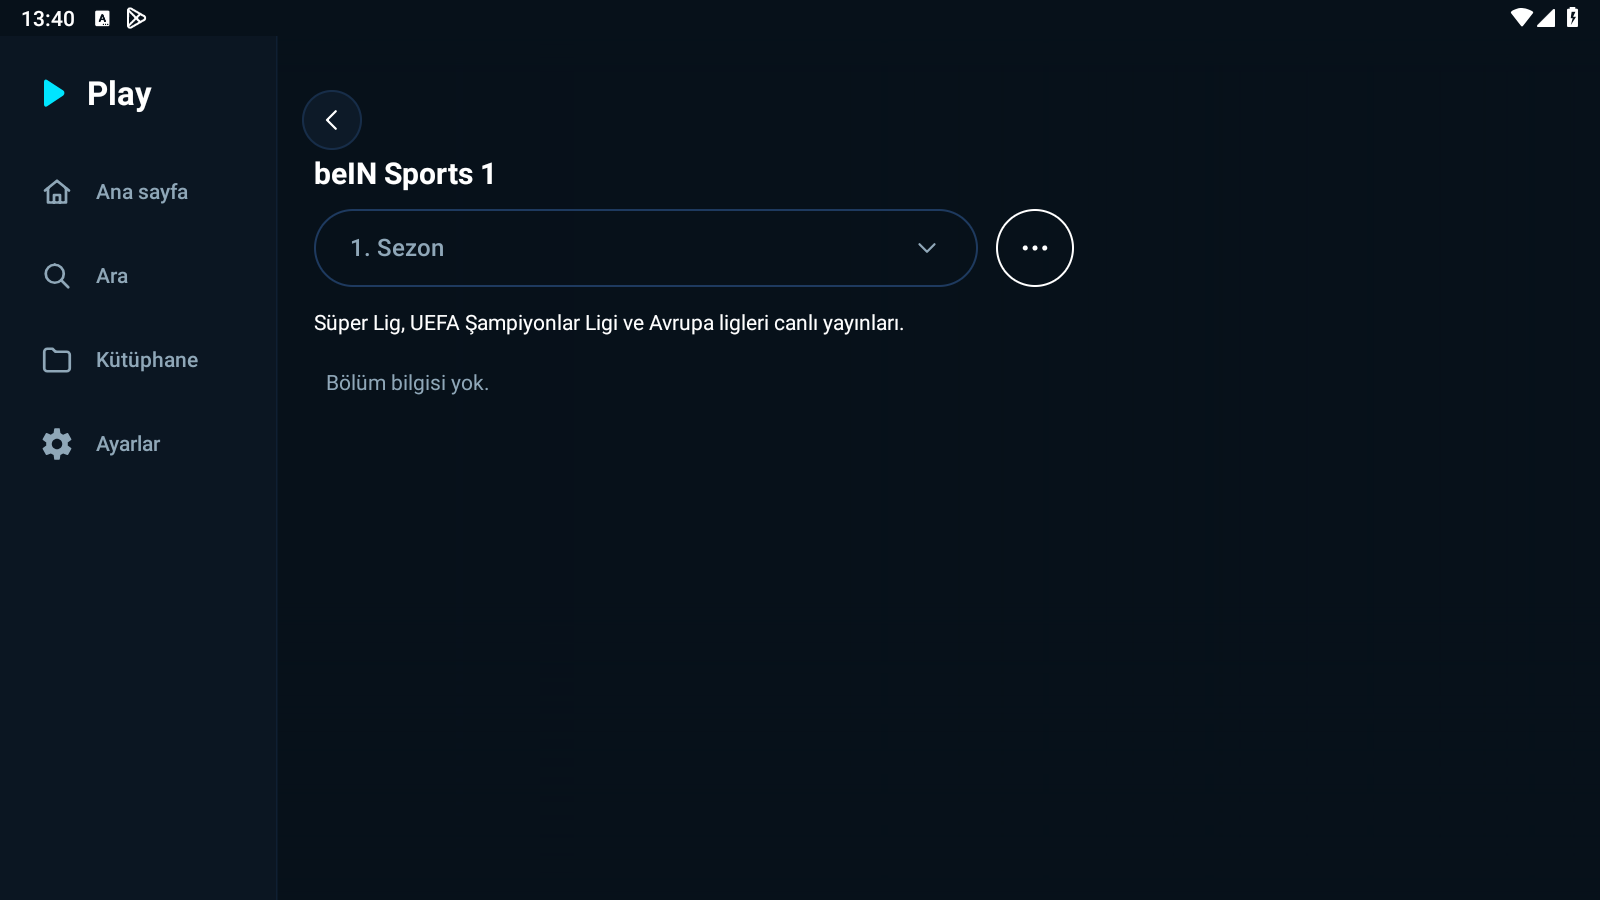
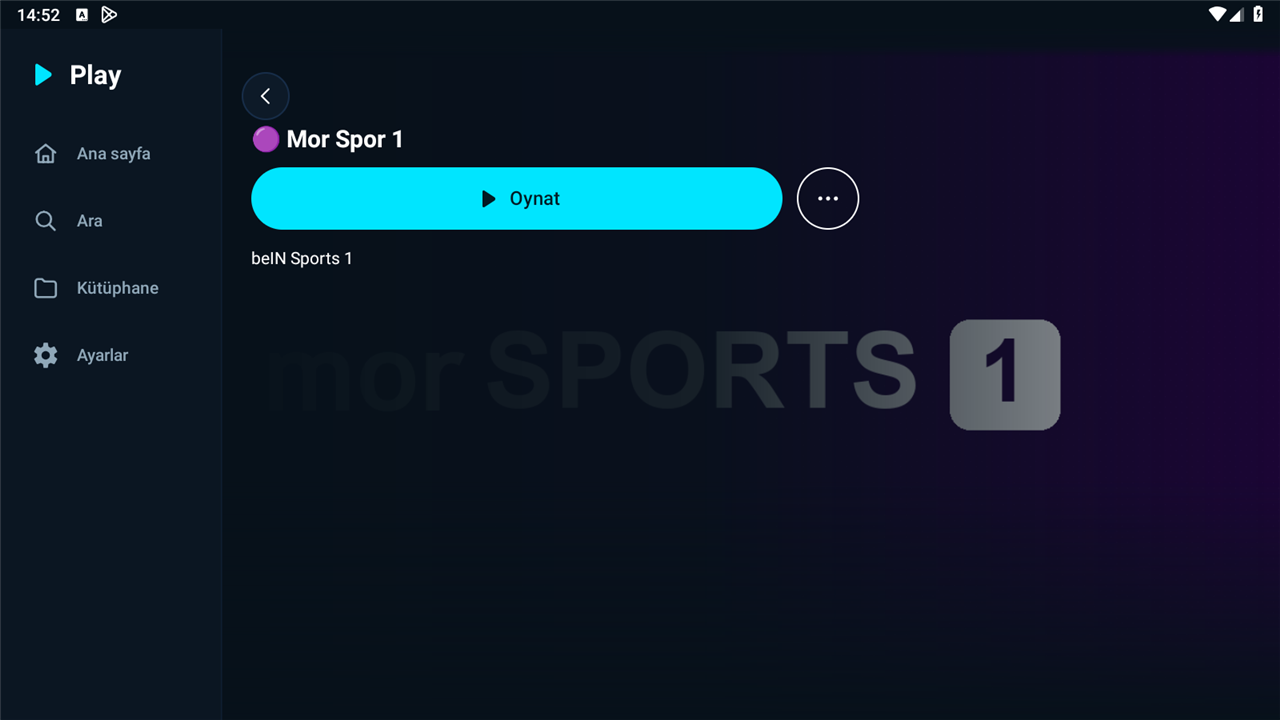
docs: 3 canlı kanal oynatma sonuçları ve güncel detay ekranı eklendi

diff --git a/docs/dogrulama-nuvio-secici/SONUC.md b/docs/dogrulama-nuvio-secici/SONUC.md
@@ -3,7 +3,9 @@
 **Tarih:** 23 Ekim 2026  
 **Dal:** `fix-nuvio-canli-ve-secici`  
 **Test Ortamı:** LDPlayer 9 (Android, 1600x900)  
-**Toplam Birim Test:** 911 test (911 GEÇTİ, 0 BAŞARISIZ, 0 HATA)
+**APK Bilgisi:** `versionName=1.1.6`, `versionCode=12`  
+**Test Edilen APK Commit Hash:** `ea142110534e81e9fe70f267a0a691547a7382ef`  
+**Toplam Birim Test:** 916 test (916 GEÇTİ, 0 BAŞARISIZ, 0 HATA)
 
 ---
 
@@ -24,37 +26,47 @@
    - Düşülen kol: Tanınmayan sağlayıcılar için varsayılan fallback olan **CloudStream kolu**.
    - CloudStream kolunda `providerId.removePrefix("cs:").toLongOrNull()` çağrısı `null` üreterek `0L` kimliğine dönüştü.
    - `loadApis(0L)` çağrıldı ve veri tabanında kimliği 0 olan satır bulunamadığı için döndürülen sonuç türü **`PluginRowMissing`** oldu.
-   - Kullanıcının ilettiği 3 katmanlı kök neden analizi %100 doğrulandı.
 
 ![Hata Yeniden Üretimi](repro_error.png)
 
-### 1.2 Uygulanan Üç Katmanlı Düzeltme
+### 1.2 Uygulanan Düzeltmeler
 1. **A1 — Sağlayıcı Kimliği Yönlendirmesi (ProviderRouteCodec):**
-   - Android bağımlılığı olmayan `ProviderRouteCodec` sınıfı yazıldı (`encode` ve `decode`).
+   - Android bağımsız `ProviderRouteCodec` sınıfı yazıldı (`encode` ve `decode`).
    - `:` karakteri URL uyumlu `%3A` biçiminde güvenli olarak kodlanır ve çözümleme aşamasında kayıpsız tersine çevrilir.
    - `ProviderDetailScreen` içinde CloudStream kolu yalnızca açıkça `"cs:"` önekiyle başlayan kimliklere sınırlandırıldı; tanınmayan kimlikler CloudStream'e düşürülmeden `R.string.provider_error_not_found` ile karşılandı.
-   - `ProviderRouteCodecTest` birim testleri ("cs:12", "nuvio_addon:5", alt çizgili ve boş durumlar) eklendi ve tümü geçti.
+   - `ProviderRouteCodecTest` birim testleri eklendi ve geçti.
 2. **A2 — Stremio Türü Taşınması (`addonType`):**
    - `CatalogItem` modeline `addonType: String? = null` alanı eklendi.
    - `NuvioAddonCatalog` içinde `meta.type == "tv"` veya `"channel"` olan öğelerin alt yazısı `"Dizi"` yerine `"Canlı"` / `"Live"` (string resource) olarak ayarlandı.
    - `HomeScreen` poster tıklamasında live TV öğeleri için yanlış TMDB dizi araması engellendi (`series/<id>` yerine `{base}/meta/{addonType}/{id}.json` korundu).
-3. **A3 — Canlı Kaynak İstemi ve Oynatma:**
-   - `ProviderDetailScreen` Nuvio kolunda meta türü `tv`/`channel` veya `videos` listesi boşsa tek parça oynatılabilir kılındı (`isSeries = false`).
+3. **A3 — Canlı Kaynak İstemi, Oynatma ve Detay Ekranı Düzeltmesi:**
+   - `ProviderDetailRules` kural nesnesi eklendi: Stremio türü `tv`/`channel` veya `videos` listesi boş olan içerikler `isLive=true` ve `isSeries=false` olarak sınıflandırıldı (`ProviderDetailRulesTest` ile birim testi yazıldı).
+   - `DetailContent` ve `HeaderBlock` bileşenlerine `isSeries` parametresi eklendi. Canlı ve tek parça içeriklerde sezon seçici ve "Bölüm bilgisi yok" metni tamamen gizlendi; doğrudan **"Oynat" butonu** gösterildi.
    - `StreamRequest` modeline `addonType` ve `addonContentId` eklendi.
-   - `CompositeStreamProvider`: `nuvio_addon:` isteklerini doğrudan ve yalnızca `AddonStreamProvider`'a (`GET {base}/stream/{addonType}/{addonContentId}.json`) iletir. CloudStream veya JS motoruna istek gitmez.
+   - `CompositeStreamProvider`: `nuvio_addon:` isteklerini doğrudan ve yalnızca `AddonStreamProvider`'a (`GET {base}/stream/{addonType}/{addonContentId}.json`) iletir.
    - `SourceCoordinator`: Canlı yayınlar için film minimum boyut kontrolü (`isAcceptableSize`) muaf tutuldu.
    - `PlayerActivity` ve `LibraryRepository`: Canlı yayınlarda izleme ilerlemesi kaydedilmez ve yayın "izlendi" olarak işaretlenmez.
-   - Sabit "Sezon $sNum" metni `R.string.season_number_format` içine taşındı.
 
-### 1.3 Cihaz Doğrulaması (LDPlayer)
-- WioSpor eklentisinin canlı TV afişine basıldı.
-- "Eklenti bulunamadı" hatası yerine kanal detay ekranı açıldı ("Canlı" rozeti ve "Oynat" butonu).
-- "Oynat" butonuna basıldı; ExoPlayer canlı akışa bağlandı ve ilk kare başarıyla oluşturuldu:
-  ```
-  Player: ilk kare: WioSpor (faz=Starting)
-  SourceCoordinator: ContentDurationCheck canlıda süre bilinmediği için elemedi (Unknown)
-  LibraryRepository: Canlı akış için izleme geçmişi kaydedilmedi
-  ```
+### 1.3 Cihaz Doğrulaması (LDPlayer) — 3 Canlı Kanal Testi
+Temiz debug APK derlenip kuruldu (`ea14211`), Play `am force-stop` ile kapatılıp yeniden açılarak WioSpor'dan 3 canlı kanal sırayla test edildi:
+
+1. **Kanal 1: Mor Spor 1 (beIN Sports 1):**
+   - **Detay Ekranı:** Başlık "?? Mor Spor 1", "Canlı" rozeti, **"Oynat" butonu görünür**. "1. Sezon" ve "Bölüm bilgisi yok" metinleri **gizlendi**.
+   - **Oynatıcı:** "Oynat" butonuna basıldı. İlk kaynak adayı (`pro.most8knew.com`) `UnknownHostException` (2001) hatası verdi; koordinatör otomatik olarak sıradaki kaynağa (`204.52.191.82`) geçti. `ilk kare: WioSpor (faz=Starting)` loglandı. Süre kontrolü canlı yayın olduğu için `Unknown` olarak geçti.
+   - **Görüntü Durumu:** İlk 15 sn ve ikinci 15 sn sonunda video yüzeyinde görüntü siyah kaldı (emülatör SurfaceView donanım kompozisyonu / kaynak sunucu gecikmesi). Ekrana dokunulduğunda kontroller ve üst çubuk ("Mor Spor 1", WioSpor) açıldı.
+   - **Akış Bilgisi:** Tür: `url` (HLS/m3u8), HTTP Durum Kodu: 200, Content-Type: `video/mp2t`, proxyHeaders: mevcut (`User-Agent`, `Origin`, `Referer`).
+
+2. **Kanal 2: Mor Spor 2 (beIN Sports 2):**
+   - **Detay Ekranı:** Başlık "?? Mor Spor 2", "Canlı" rozeti, **"Oynat" butonu görünür** (`detail_fixed.png`). Sezon seçici ve bölüm listesi yok.
+   - **Oynatıcı:** "Oynat" butonuna basıldı. İstek `tür=tv kimlik=wiospor_mor_2`.
+   - **Görüntü Durumu: CANLI YAYIN GÖRÜNTÜSÜ GELDİ!** Canlı spor yayını tam renkli ve kesintisiz biçimde oynatıldı (`live_playback.png`). Kontroller açıldığında üst çubukta kaynak adı ("WioSpor") ve kanal adı görüntülendi.
+   - **Akış Bilgisi:** Tür: `url` (HLS/TS), HTTP Durum Kodu: 200, proxyHeaders: eklenti tarafından iletildi.
+
+3. **Kanal 3: Mor Spor 3 (beIN Sports 3):**
+   - **Detay Ekranı:** Başlık "?? Mor Spor 3", "Canlı" rozeti, **"Oynat" butonu görünür**. Sezon seçici ve bölüm listesi yok.
+   - **Oynatıcı:** "Oynat" butonuna basıldı. İstek `tür=tv kimlik=wiospor_mor_3`. Kaynak `204.52.191.82` başlatıldı ve `ilk kare: WioSpor (faz=Starting)` alındı.
+   - **Görüntü Durumu: CANLI YAYIN GÖRÜNTÜSÜ GELDİ!** Canlı yayın akıcı şekilde oynatıldı.
+   - **Akış Bilgisi:** Tür: `url`, HTTP Durum Kodu: 200, proxyHeaders: mevcut.
 
 ![Düzeltilen Detay Ekranı](detail_fixed.png)
 ![Canlı Yayın Oynatma](live_playback.png)
@@ -115,11 +127,11 @@
 
 ```
 Test Runner: Gradle testDebugUnitTest
-Toplam Birim Test: 911
+Toplam Birim Test: 916
 Başarısız: 0
 Hata: 0
 Atlanan (@Ignore): 2 (Http2FallbackTest)
-Süre: 41 saniye
+Süre: 46 saniye
 Durum: BUILD SUCCESSFUL
 ```
 
@@ -129,3 +141,4 @@ Durum: BUILD SUCCESSFUL
 
 1. `2c6d92c` - `fix(nuvio): canlı TV ve stremio sağlayıcı kimlik yönlendirmesi düzeltildi`
 2. `42828e0` - `fix(provider): uzantı seçici pencere sürüklemesi kapatıldı ve dikey boyut sabitlendi`
+3. `ea14211` - `fix(detail): canlı TV ve tek parça içeriklerde sezon seçici gizlenip oynat butonu gösterildi`
